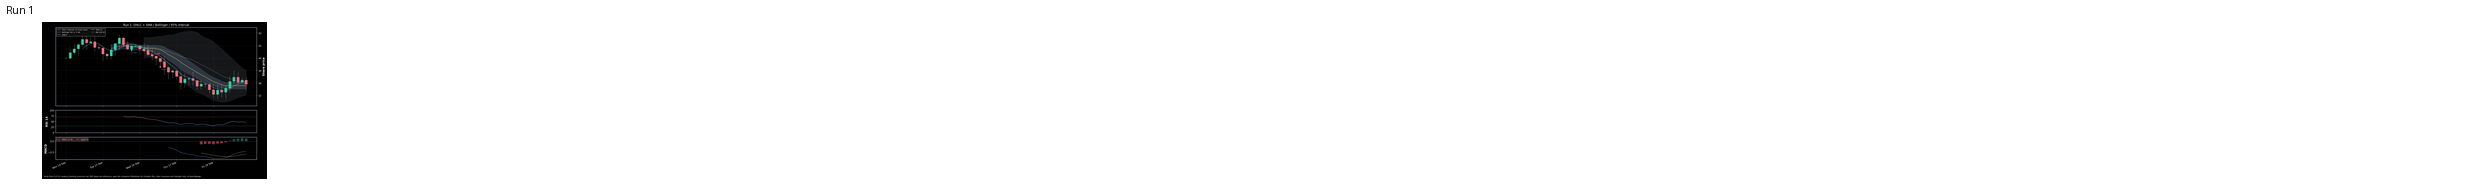
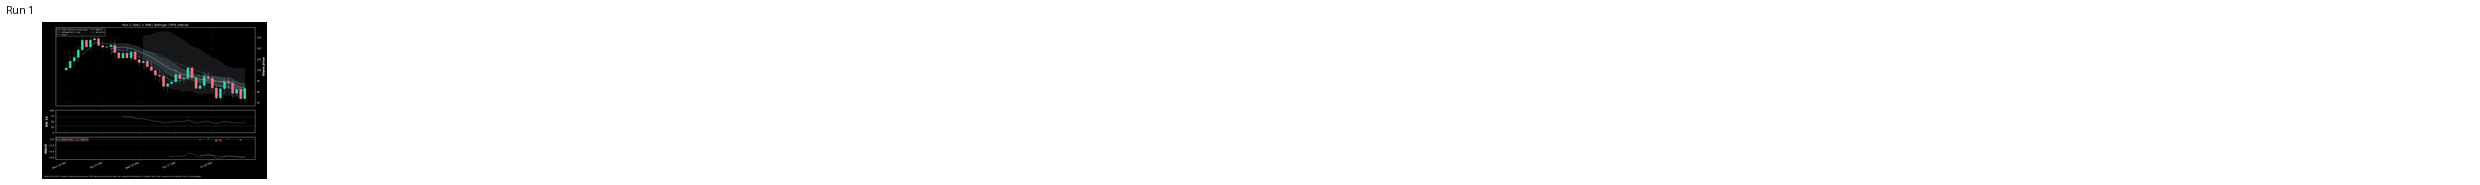
savestate to download

diff --git a/maths&stats/model/market_analysis.py b/maths&stats/model/market_analysis.py
@@ -3,7 +3,6 @@ from __future__ import annotations
 
 import math
 from pathlib import Path
-import shutil
 from typing import Any
 
 import matplotlib
@@ -349,7 +348,7 @@ def analyze_looped_results(source_dir: str | Path, output_dir: str | Path) -> di
         raise FileNotFoundError(f"Input folder does not exist: {source}")
     if not output.is_dir():
         raise FileNotFoundError(f"Analysis output folder does not exist (not creating it): {output}")
-    #guide_path = Path(__file__).with_name("analysis_learning_resources.md")
+    guide_path = Path(__file__).with_name("analysis_learning_resources.md")
     csv_paths = sorted(source.glob("data_*.csv"), key=lambda path: int(path.stem.split("_")[-1]))
     png_ids = {int(path.stem.split("_")[-1]) for path in source.glob("image_*.png")}
     csv_ids = {int(path.stem.split("_")[-1]) for path in csv_paths}
@@ -397,7 +396,6 @@ def analyze_looped_results(source_dir: str | Path, output_dir: str | Path) -> di
     _overall_metrics(summary, bars, all_trades).to_csv(output / "overall_metrics.csv", index=False)
     _contact_sheet([(run_id, source / f"image_{run_id}.png") for run_id in run_ids], output / "all_source_charts_contact_sheet.png")
     _contact_sheet(analysis_images, output / "all_analysis_charts_contact_sheet.png")
-    shutil.copy2(guide_path, output / guide_path.name)
     return {"runs": len(run_ids), "bars": len(bars), "trades": len(all_trades), "output_dir": str(output)}
 
 

diff --git a/maths&stats/model/price_modeling.py b/maths&stats/model/price_modeling.py
@@ -97,7 +97,7 @@ def generate_daily():
         if not allow_negative:
             close_price = max(0.0, close_price)
 
-        wick_range = abs((6/15) * (prev_close / 100) * vol_index)
+        wick_range = ((3.5/15) * (prev_close / 100) * vol_index)
         high = max(open_price, close_price) + rand.uniform(0, wick_range)
         low = min(open_price, close_price) - rand.uniform(0, wick_range)
         if not allow_negative:
